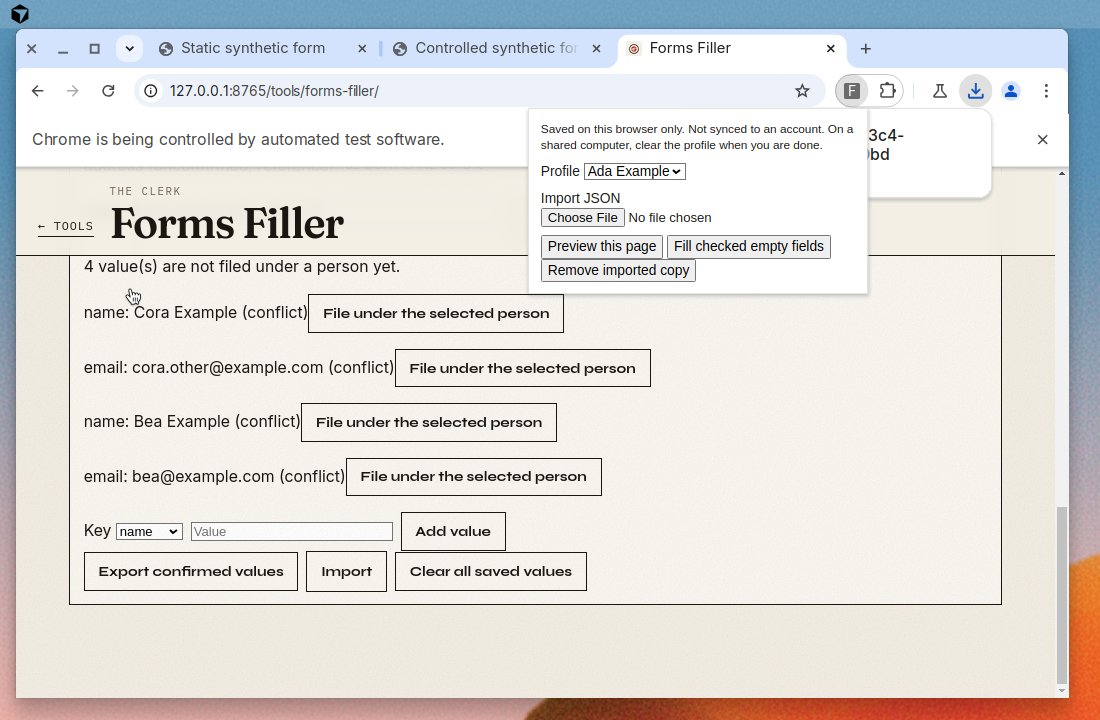
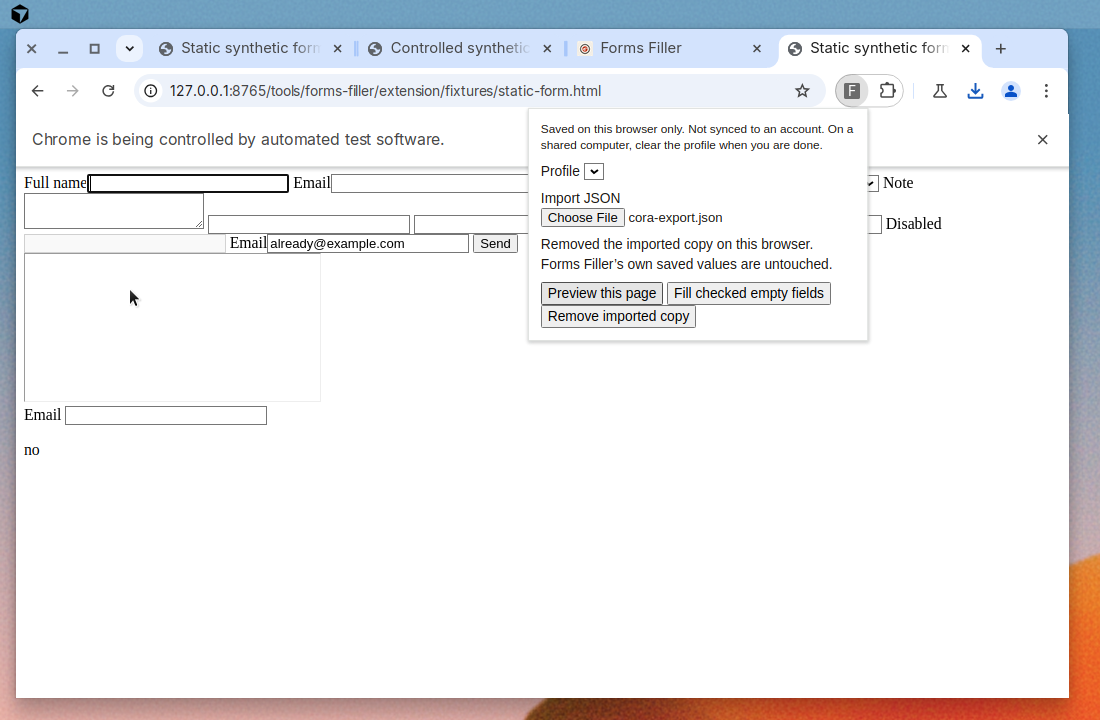
Keep saved values closed until asked and explain the extension install.
The panel starts collapsed, including after reload, and Escape or Close puts it away. The page links the existing 0.1.0 zip and says how to load it unpacked. A headed Chromium run covered that path, a fresh scan, and reopening the popup.

diff --git a/tools/forms-filler/index.html b/tools/forms-filler/index.html
@@ -50,6 +50,7 @@ try { localStorage.removeItem('tools-theme'); } catch (e) {}
     <button id="clearBtn" type="button" class="btn">Start over</button>
     <button id="skipModel" type="button" class="btn" hidden>Continue with what’s filled</button>
   </div>
+  <p class="review-quote" id="whatWorks">This page reads a form and your papers on this computer. You choose which values to keep. A desktop browser extension can fill another website from a file you export. It is not in the Chrome Web Store, and this page cannot install it for you.</p>
   <p id="readStatus" class="read-status" hidden role="status"></p>
   <div id="modelBox" class="model" hidden>
     <p id="modelTitle">Downloading private model</p>
@@ -57,8 +58,27 @@ try { localStorage.removeItem('tools-theme'); } catch (e) {}
     <div class="meter" aria-hidden="true"><span id="modelBar"></span></div>
     <p id="modelDetail" class="note"></p>
   </div>
-  <section id="profileBox" class="review" aria-labelledby="profileTitle">
-    <h2 id="profileTitle">Saved values</h2>
+  <section id="extensionHelp" class="review" aria-labelledby="extensionTitle">
+    <h2 id="extensionTitle">Install the browser extension</h2>
+    <p class="review-quote">Desktop Chrome or Chromium only. Not a phone install, not a one-click install, and not a Chrome Web Store listing. Version 0.1.0. The zip is the unpacked extension. Nothing in it is uploaded.</p>
+    <p><a id="extensionZip" class="btn" href="extension/forms-filler-profiles-0.1.0.zip" download>Download the extension (version 0.1.0)</a></p>
+    <ol class="install-steps">
+      <li>Download the zip and unzip it. Keep the folder intact.</li>
+      <li>Open the browser’s Extensions page. Turn on Developer mode. Choose Load unpacked, then select that unzipped folder.</li>
+      <li>Pin “Forms Filler profiles” so you can find the icon. On a new browser profile the shortcut Ctrl+Shift+Y (Command+Shift+Y on a Mac) opens it too.</li>
+      <li>Open Saved values on this page, confirm the values you want, and use Export confirmed values.</li>
+      <li>In the extension, import that file, choose the person, read Preview, then Fill. Fill does not submit the website form.</li>
+    </ol>
+    <p class="review-quote">This site and the extension keep separate copies. Removing the imported copy in the extension does not delete values here. To refresh the extension, export again and import the new file. Password, payment, and one-time-code fields are skipped, as are hidden, disabled, and read-only fields. The extension may use the tab you open, run on that tab when you press Fill, and store the imported copy. It does not ask to read every website.</p>
+  </section>
+  <p class="row">
+    <button id="profileToggle" type="button" class="btn" aria-expanded="false" aria-controls="profileBox">Saved values</button>
+  </p>
+  <section id="profileBox" class="review" hidden tabindex="-1" aria-labelledby="profileTitle">
+    <div class="row">
+      <h2 id="profileTitle">Saved values</h2>
+      <button id="profileClose" type="button" class="btn">Close</button>
+    </div>
     <p class="review-quote">Stored in this browser only. Not an account and not synced. On a shared computer, clear them when you are done. Unconfirmed reads stay here until you confirm them. The extension uses confirmed values only, from an export file you download yourself.</p>
     <p id="profileMsg" role="status"></p>
     <div class="row">

diff --git a/tools/forms-filler/profiles-ui.js b/tools/forms-filler/profiles-ui.js
@@ -40,6 +40,11 @@
     var profile = data.profiles.filter(function (p) { return p.id === pick.value; })[0];
     var list = $('profileFacts');
     list.textContent = '';
+    if (!data.profiles.length) {
+      var empty = document.createElement('li');
+      empty.textContent = 'No one is saved yet. Filling from a reference can add a person, or use New person.';
+      list.appendChild(empty);
+    }
     if (profile) {
       profile.facts.forEach(function (fact) {
         var li = document.createElement('li');
@@ -102,6 +107,17 @@
     }
   }
 
+  function setSavedOpen(open) {
+    var box = $('profileBox');
+    var toggle = $('profileToggle');
+    if (!box || !toggle) return;
+    var wasOpen = !box.hidden;
+    box.hidden = !open;
+    toggle.setAttribute('aria-expanded', open ? 'true' : 'false');
+    if (open && !wasOpen) box.focus();
+    if (!open && wasOpen) toggle.focus();
+  }
+
   function boot() {
     if (!$('profilePick') || !window.FormProfiles) return;
     var key = $('factKey');
@@ -136,10 +152,28 @@
       $('factValue').value = '';
       await save(result.vault, 'Saved on this browser.');
     });
+    if ($('profileToggle')) {
+      $('profileToggle').addEventListener('click', function () { setSavedOpen($('profileBox').hidden); });
+    }
+    if ($('profileClose')) {
+      $('profileClose').addEventListener('click', function () { setSavedOpen(false); });
+    }
+    document.addEventListener('keydown', function (event) {
+      if (event.key !== 'Escape' || !$('profileBox') || $('profileBox').hidden) return;
+      var active = document.activeElement;
+      if (active !== $('profileBox') && !$('profileBox').contains(active)) return;
+      event.preventDefault();
+      setSavedOpen(false);
+    });
     $('profileExport').addEventListener('click', async function () {
       var current = await vault();
       if (!current) return;
-      var blob = new Blob([JSON.stringify(FormProfiles.exportBundle(current), null, 2)], { type: 'application/json' });
+      var bundle = FormProfiles.exportBundle(current);
+      if (!bundle.profiles.length) {
+        say('Nothing confirmed yet. Confirm a value, then export. Unconfirmed reads stay on this site.');
+        return;
+      }
+      var blob = new Blob([JSON.stringify(bundle, null, 2)], { type: 'application/json' });
       var url = URL.createObjectURL(blob);
       var link = document.createElement('a');
       link.href = url;
@@ -169,5 +203,5 @@
 
   if (document.readyState === 'loading') document.addEventListener('DOMContentLoaded', boot);
   else boot();
-  window.FormProfileUI = { paint: paint };
+  window.FormProfileUI = { paint: paint, setSavedOpen: setSavedOpen };
 })();

diff --git a/tools/forms-filler/form.css b/tools/forms-filler/form.css
@@ -12,7 +12,12 @@
 #failBox p { margin: 0 0 10px; }
 .review { border: 1px solid var(--line); background: var(--paper-2); padding: 12px 14px; margin: 14px 0; }
 .review-list { list-style: none; margin: 8px 0; padding: 0; display: flex; flex-direction: column; gap: 8px; }
-.review-list li { display: flex; gap: 8px; align-items: flex-start; }
+.review-list li { display: flex; gap: 8px; align-items: flex-start; flex-wrap: wrap; }
+.review-list input[type="text"] { flex: 1 1 12em; min-width: 0; max-width: 100%; }
+#profileBox:focus { outline: 2px solid var(--ink); outline-offset: 2px; }
+#profileToggle, #extensionZip { min-height: 44px; }
+.install-steps { margin: 8px 0 8px 1.2em; padding: 0; }
+.install-steps li { margin: 6px 0; }
 .review-list label { display: flex; gap: 8px; align-items: flex-start; cursor: pointer; }
 .review-quote { color: var(--muted); font-size: 13px; }
 .model-state { margin: 0 0 14px; font-size: 14px; line-height: 1.45; }
@@ -34,5 +39,5 @@
   .drops { grid-template-columns: 1fr; }
   .summary li { grid-template-columns: 1fr; gap: 2px; }
   .row { flex-direction: column; align-items: stretch; }
-  .btn-main, #fillBtn { width: 100%; }
+  .btn-main, #fillBtn, #profileToggle, #extensionZip { width: 100%; text-align: center; }
 }

diff --git a/research/forms-filler/JOURNEY.md b/research/forms-filler/JOURNEY.md
@@ -1,0 +1,23 @@
+# Forms Filler journey
+
+Checked on this branch, not on the live site. Pull request 14 is not merged, so the download link is not on the published GitHub Pages site yet. Locally it is `tools/forms-filler/extension/forms-filler-profiles-0.1.0.zip`.
+
+## What a first visit can do
+
+The page says it reads a form and papers on this computer, and that a desktop extension is separate and not in the Chrome Web Store. Saved values stay closed until the Saved values button is used. Escape or Close puts them away and returns focus to that button. A reload starts closed again. Finishing a read does not open the panel.
+
+An empty store says no one is saved yet. Export before anything is confirmed explains that unconfirmed reads stay on the site. A broken import file is rejected. Confirmed corrections survive reload and a later read. Another person’s values stay unfiled. Delete removes one value. The extension copy can be removed without deleting the site copy.
+
+## Extension
+
+Version 0.1.0. Permissions are storage, activeTab, and scripting. No host permission. The page does not install it. Desktop Chrome or Chromium: unzip, Extensions, Developer mode, Load unpacked, pin, import an export, Preview, Fill. Fill does not submit. Password, payment, one-time-code, hidden, disabled, and read-only fields are skipped.
+
+Chromium 131.0.6778.33 ran the unpacked zip from the download path. The shortcut toggles the popup: one press while it is open closes it, and the next press opens it. A DevTools connection that started before the popup does not list it. Current Chrome stable was not the browser that loaded the extension. Phones are not supported by this install.
+
+## This run
+
+32 checks passed, 0 failed. Raw file: `visual-e2e/results/profiles-gesture-e2e.json`. Screenshots: `saved-collapsed.png`, `saved-collapsed-mobile.png`, `saved-open.png`, plus the popup preview and fill shots in the same folder.
+
+## Not this release
+
+Scan autofill stays off. The frozen scan audit was not retuned. Bigger layout and model work is separate.
